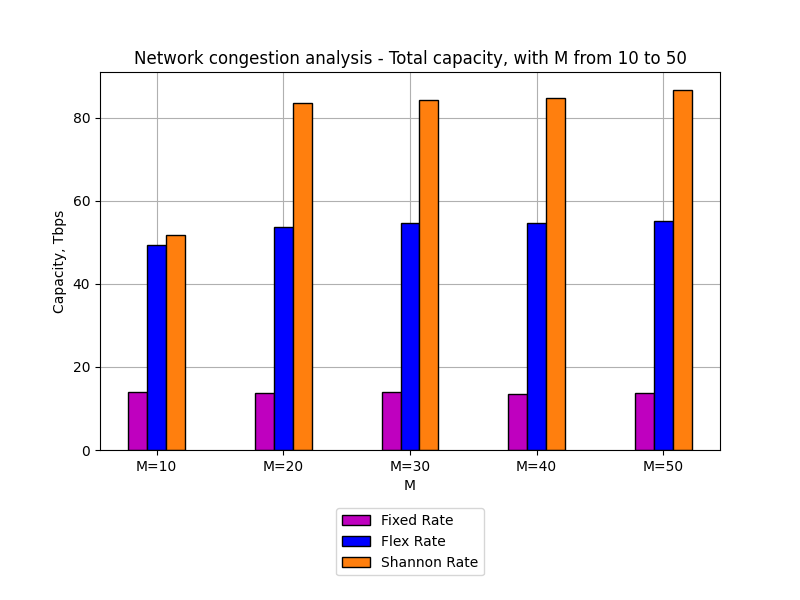
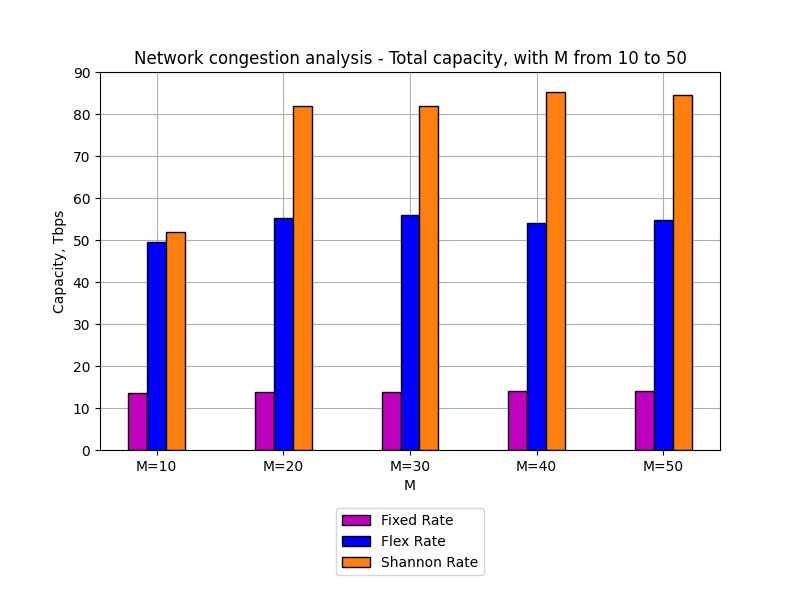
Fixed total capacity plots.

diff --git a/core/utils.py b/core/utils.py
@@ -242,7 +242,7 @@ def free_lines_and_switch_matrix(file, network):
 
 def plot_bar(figure_num=None, list_data=None, x_ticks=None, edge_color='k', color=None, label=None, title='', ylabel='',
              xlabel='', savefig_path=None, bbox_to_anchor=None, loc=None, bottom=None, NaN_display=False, myalpha=None,
-             remove_y_ticks=None):
+             remove_y_ticks=None, y_range=None):
     if NaN_display:
         list_data = list(np.nan_to_num(list_data))  # replace NaN with 0
 
@@ -260,6 +260,8 @@ def plot_bar(figure_num=None, list_data=None, x_ticks=None, edge_color='k', colo
     plt.title(title)
     plt.ylabel(ylabel)
     plt.xlabel(xlabel)
+    if y_range is not None:
+        plt.ylim(y_range[0], y_range[1])
     ax.set_axisbelow(True)
     plt.grid()
     if x_ticks:

diff --git a/Tasks/LAB10/LAB10.py b/Tasks/LAB10/LAB10.py
@@ -758,7 +758,7 @@ if do_simulations[1]:
                       color=['m', 'b', 'tab:orange'],
                       label=['Fixed Rate', 'Flex Rate', 'Shannon Rate'], xlabel='M', ylabel='Capacity, Tbps',
                       title='Network congestion analysis - Total capacity, ' + string_for_titles, myalpha=1,
-                      x_ticks=[M for M in M_list])
+                      x_ticks=[M for M in M_list], y_range=[0, 90])
         if save_my_figure:
             plt.savefig(outp_plot_capacity)
 
